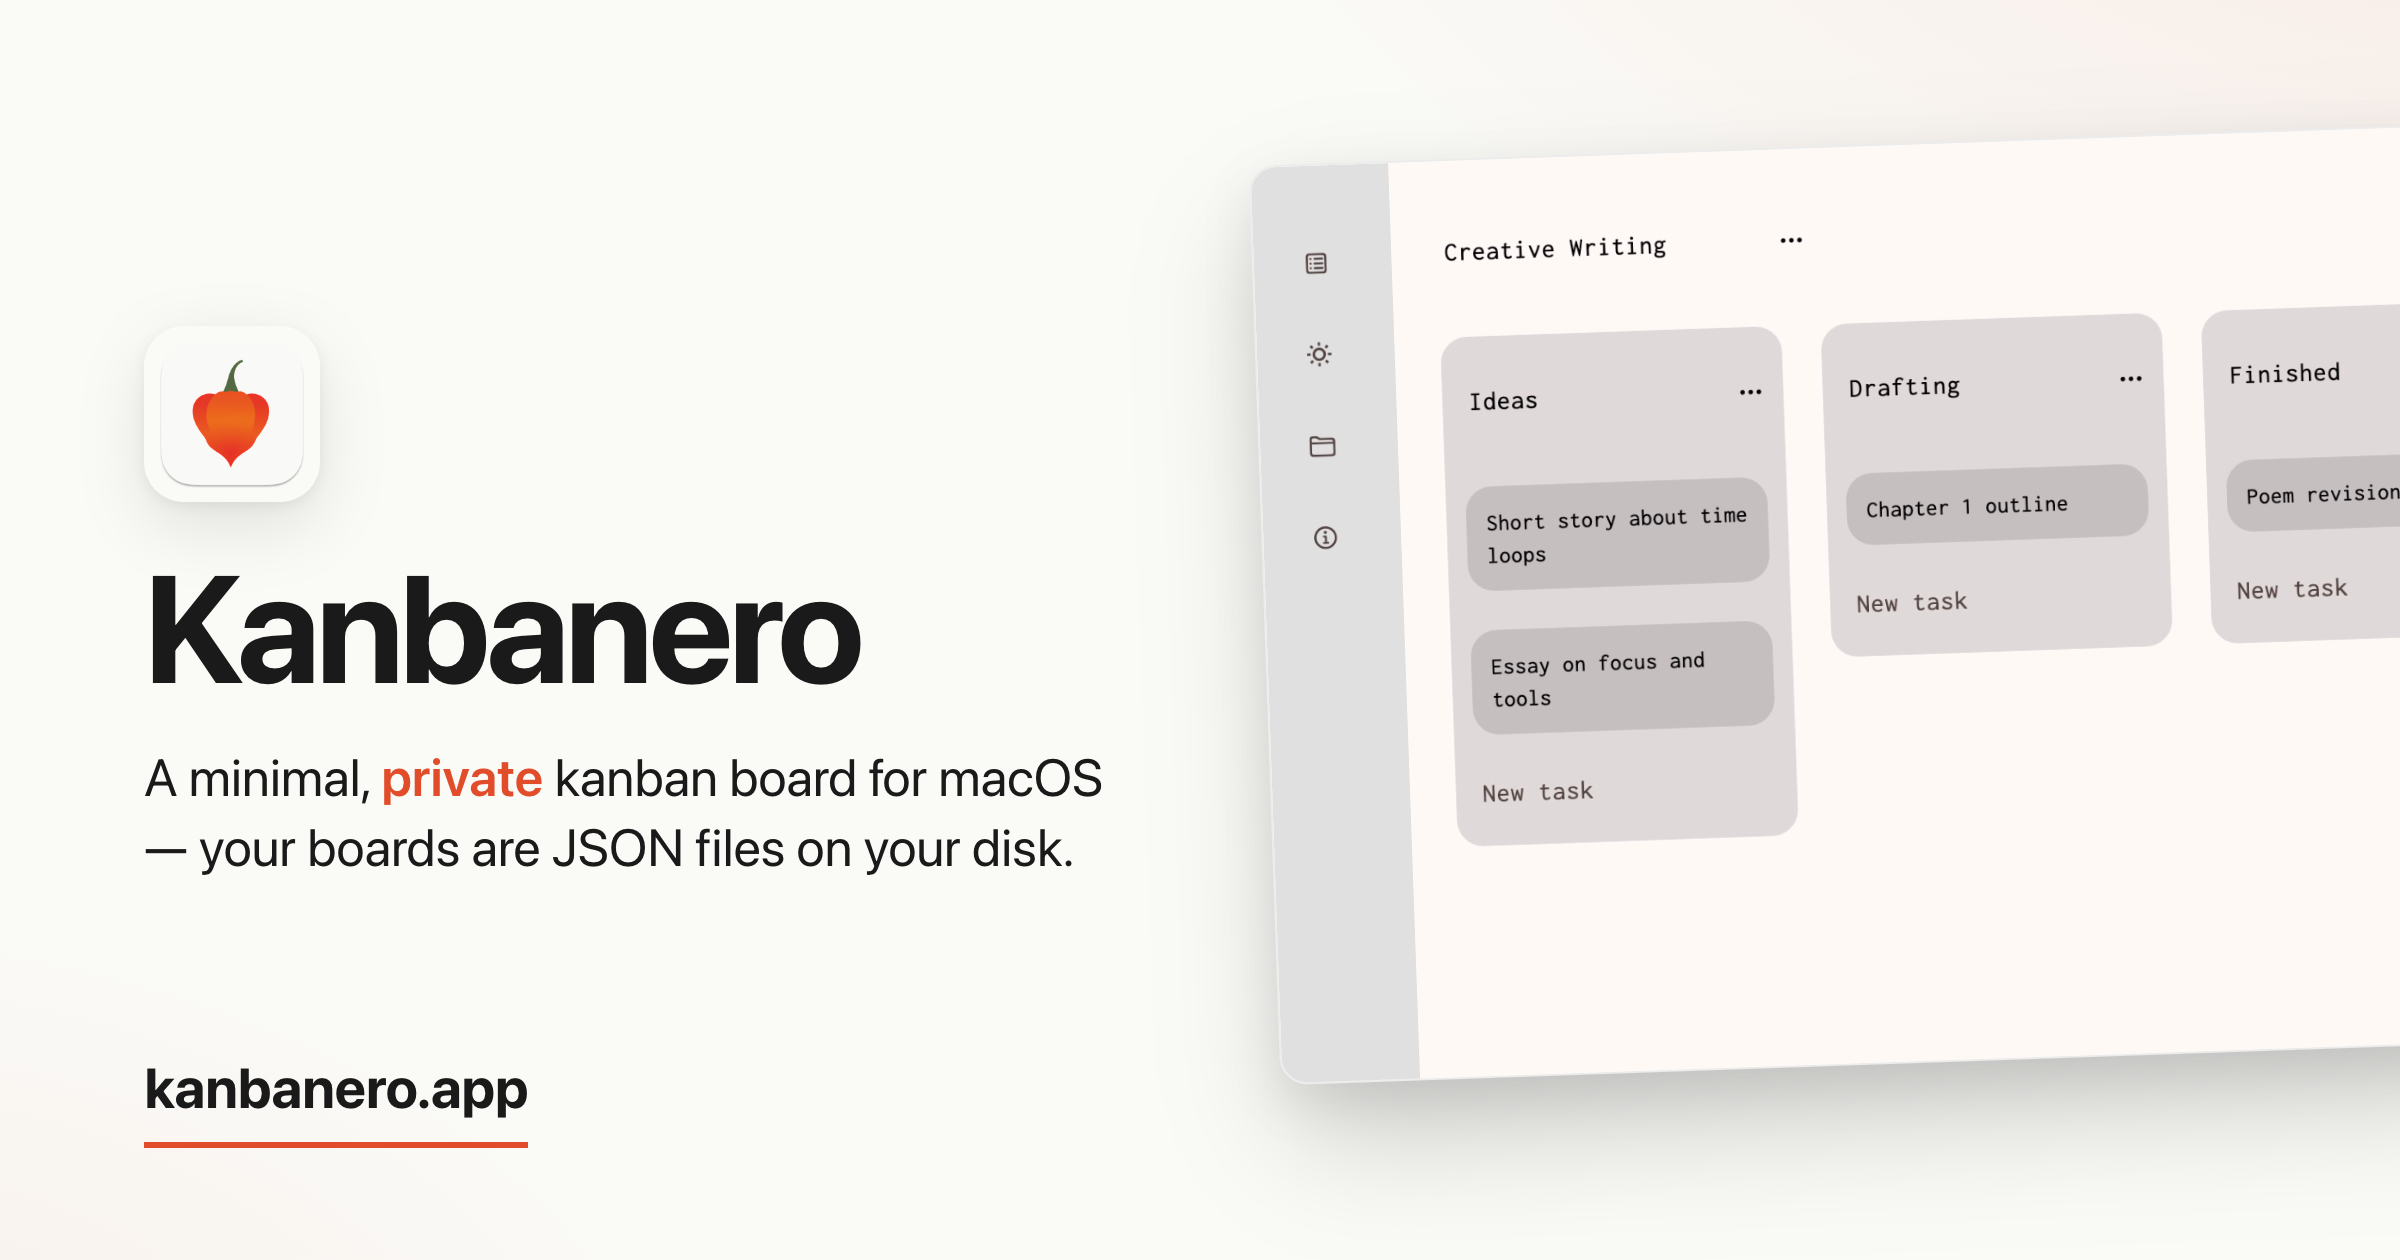
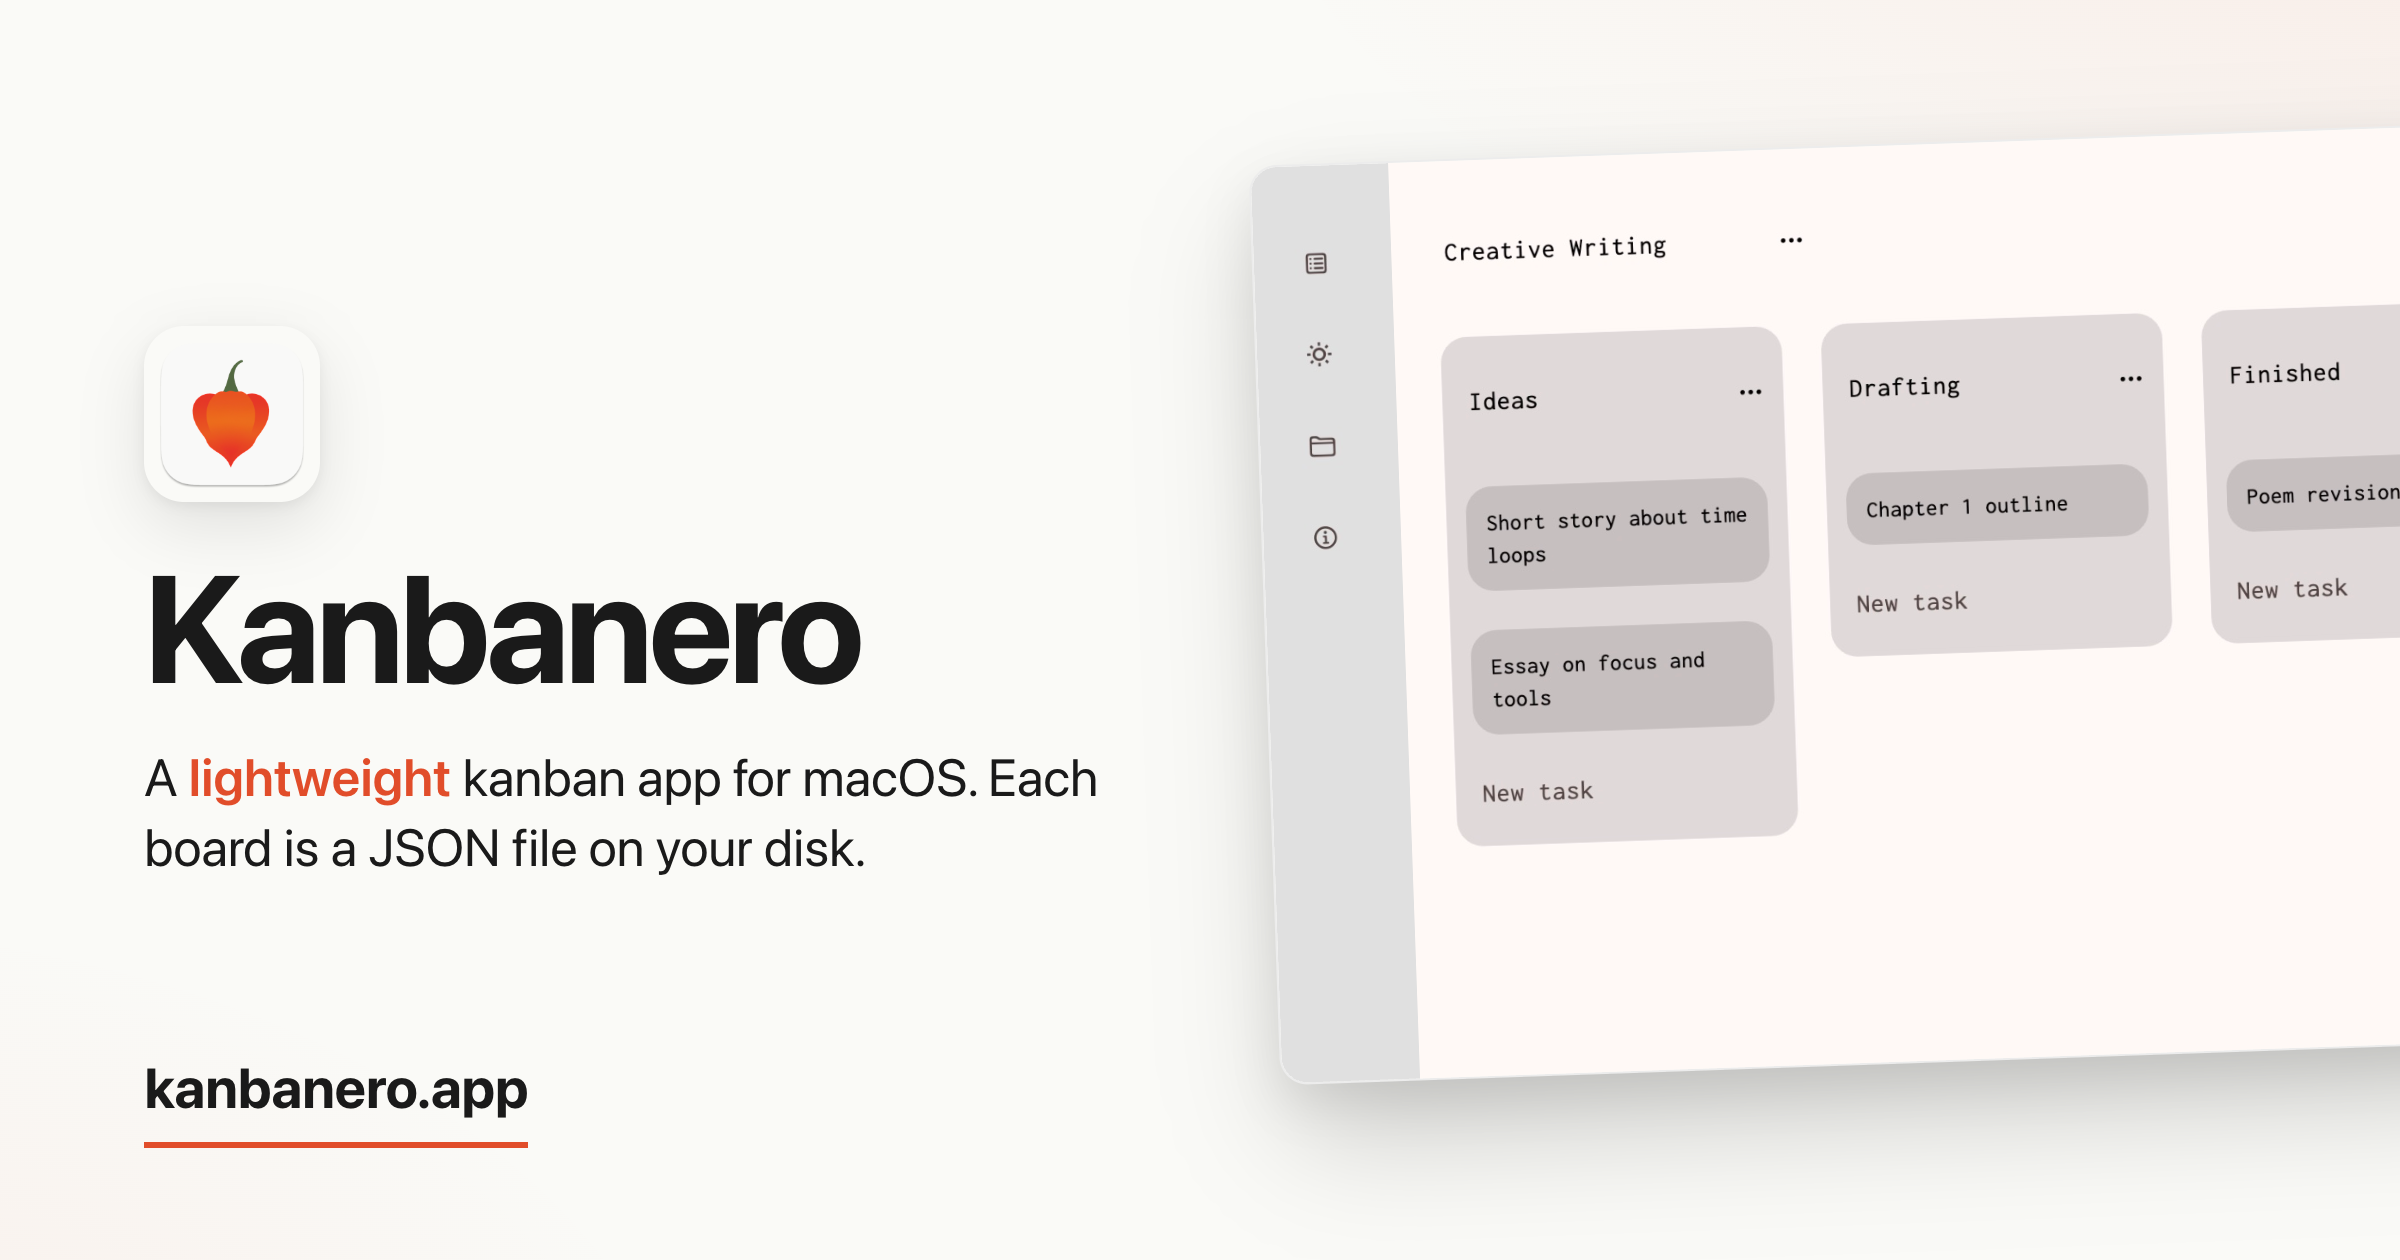
Update OG image to new tagline ('lightweight kanban app for macOS')
Re-rendered images/og.png from updated template. Highlights
'lightweight' in habanero orange to match the App Store voice and
the rest of the site copy.

Changed region(s): [[0.0625, 0.5881, 0.4688, 0.7119]]

diff --git a/scripts/og-template.html b/scripts/og-template.html
@@ -117,7 +117,7 @@
     <div class="brand">
       <img class="icon" src="../images/icon.png" alt="" />
       <h1>Kanbanero</h1>
-      <p class="tagline">A minimal, <strong>private</strong> kanban board for macOS — your boards are JSON files on your disk.</p>
+      <p class="tagline">A <strong>lightweight</strong> kanban app for macOS. Each board is a JSON file on your disk.</p>
     </div>
     <div class="shot-wrap">
       <div class="shot-frame">
